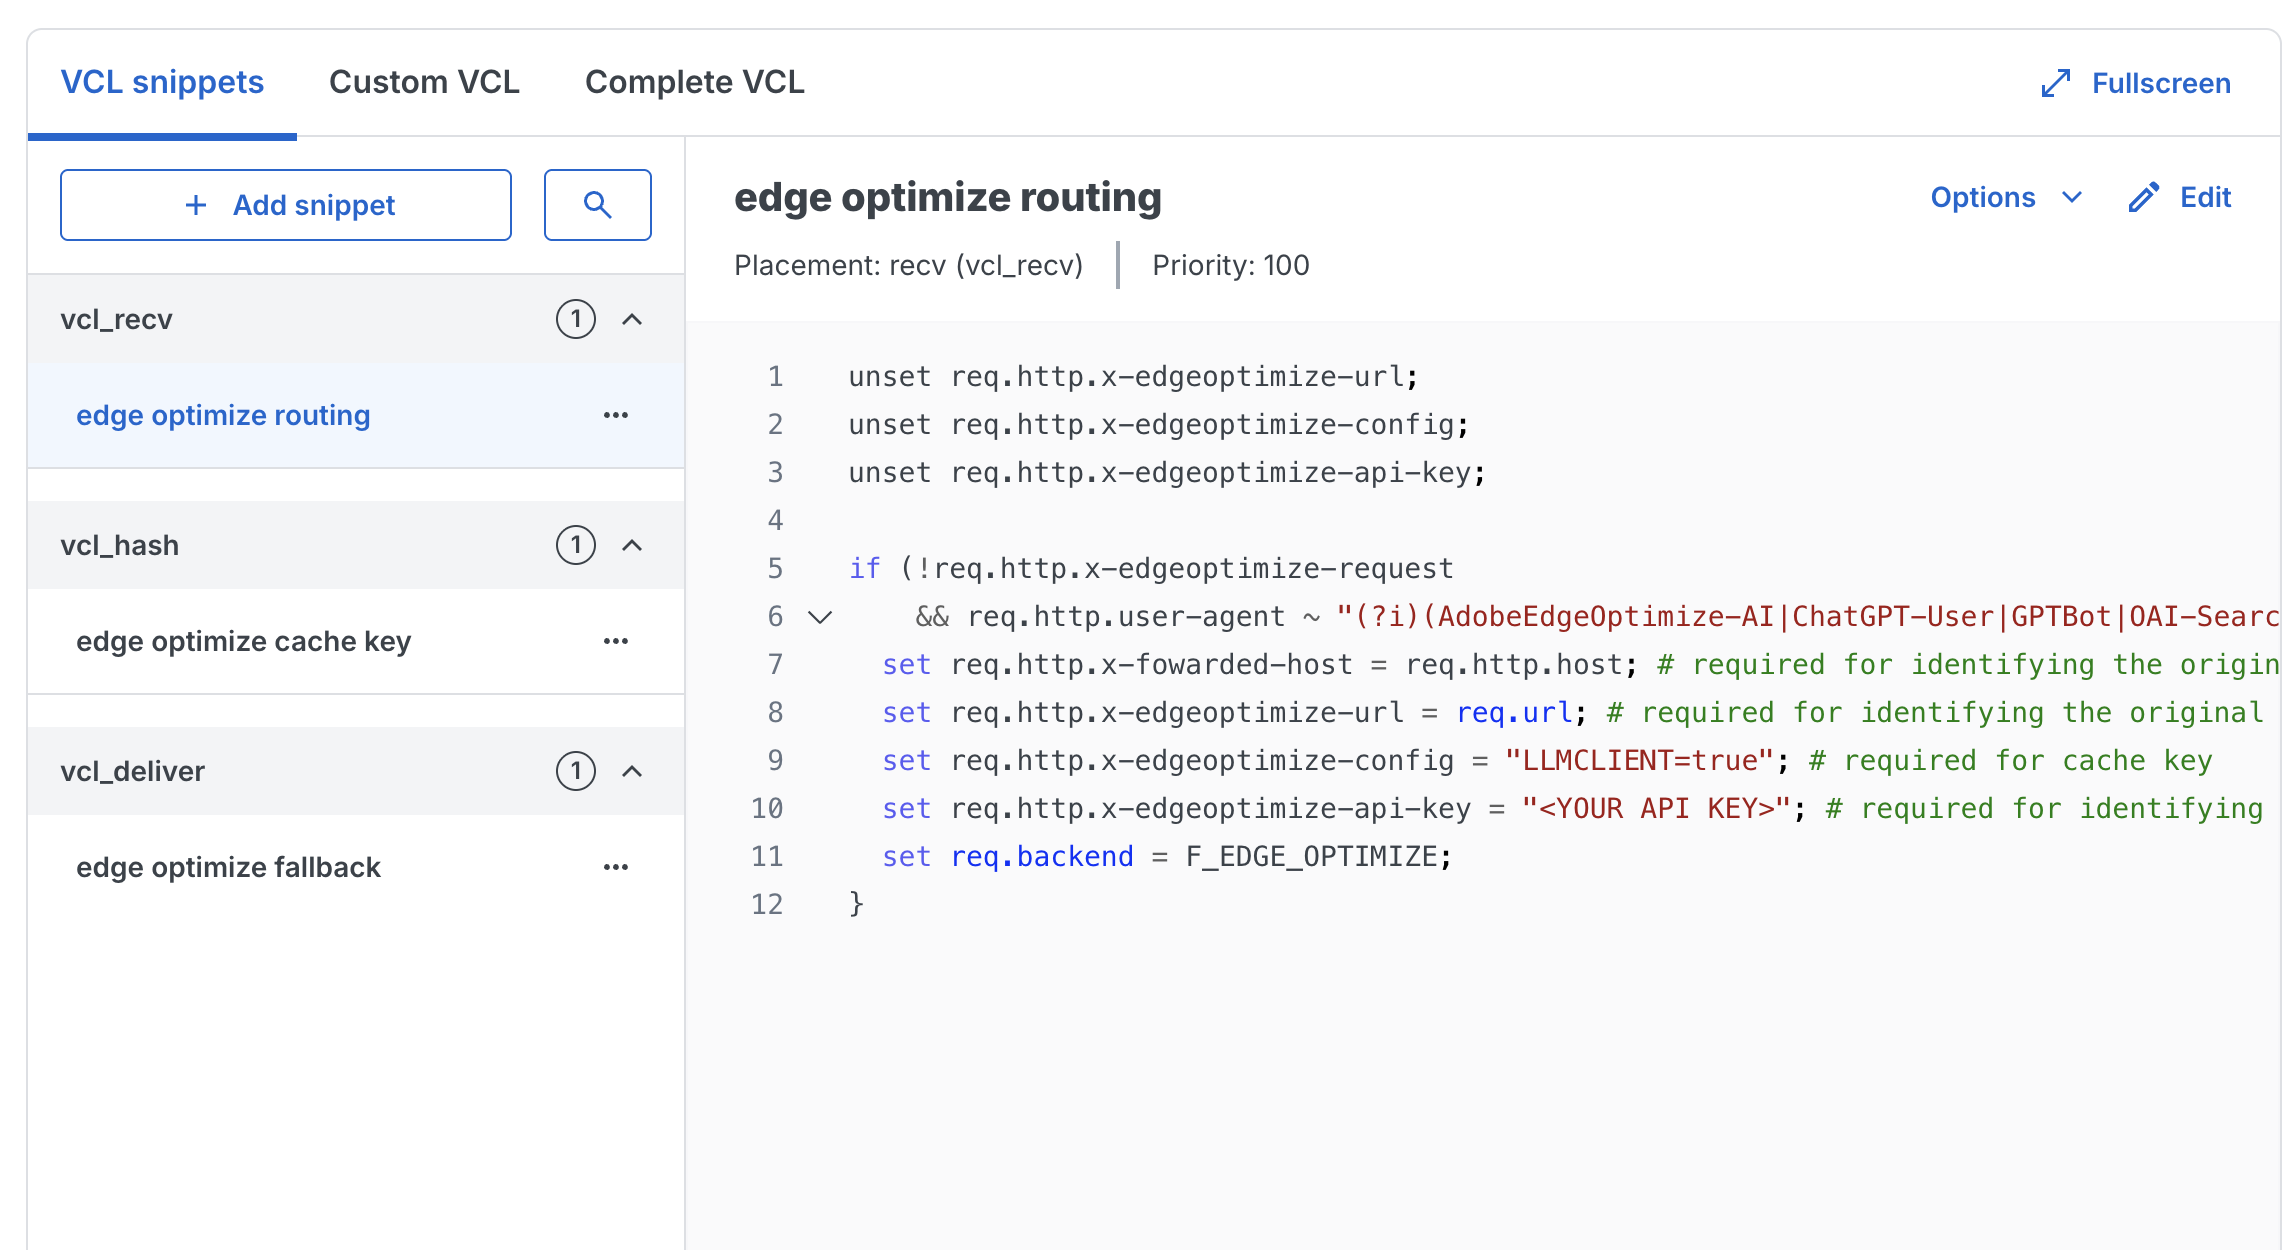
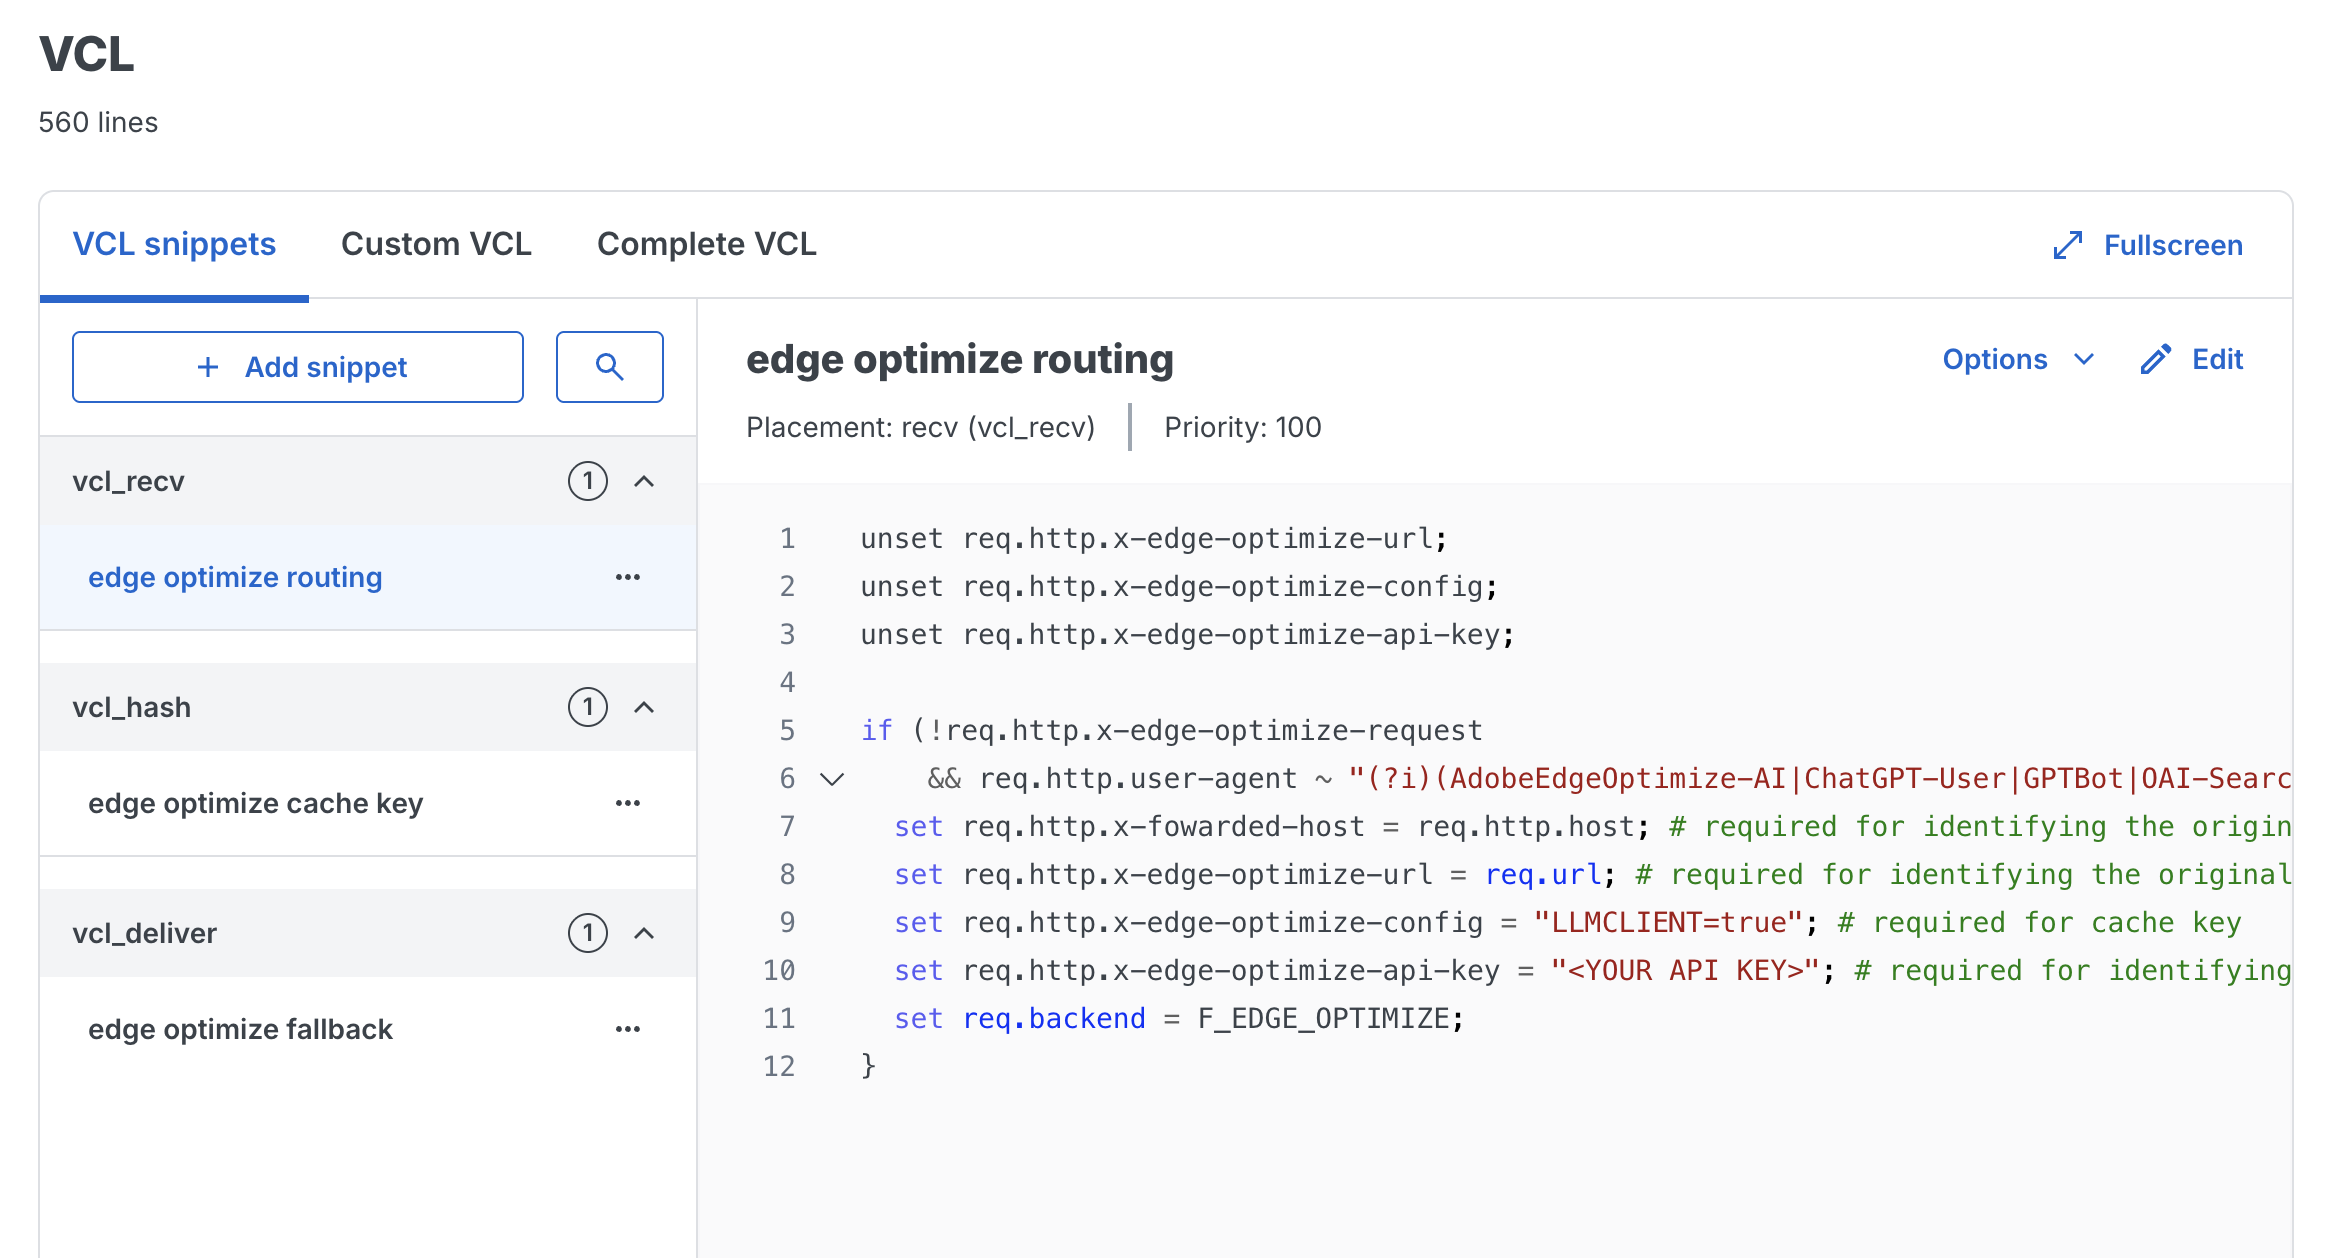
Revert "fix: renaming to x-edgeoptimize"

diff --git a/help/dashboards/optimize-at-edge.md b/help/dashboards/optimize-at-edge.md
@@ -57,12 +57,12 @@ To guide the setup process, presented below, are sample configurations for a num
 
 **Adobe Managed CDN**
 
-The purpose of this configuration is to configure requests with agentic user agents that will be routed to the Optimizer service (`live.edgeoptimize.net` backend). To test the configuration, after the setup is complete look for the header `x-edgeoptimize-request-id` in the response.
+The purpose of this configuration is to configure requests with agentic user agents that will be routed to the Optimizer service (`live.edgeoptimize.net` backend). To test the configuration, after the setup is complete look for the header `x-edge-optimize-request-id` in the response.
 
 ```
 curl -svo page.html https://frescopa.coffee/about-us --header "user-agent: chatgpt-user"
 < HTTP/2 200
-< x-edgeoptimize-request-id: 50fce12d-0519-4fc6-af78-d928785c1b85
+< x-edge-optimize-request-id: 50fce12d-0519-4fc6-af78-d928785c1b85
 
 ```
 
@@ -89,7 +89,7 @@ data:
       - name: route-to-edge-optimize-backend
         when:
           allOf:
-            - reqHeader: x-edgeoptimize-request
+            - reqHeader: x-edge-optimize-request
               exists: false # avoid loops when requests comes from Edge Optimize
             - reqHeader: user-agent
               matches: "(?i)(AdobeEdgeOptimize-AI|ChatGPT-User|GPTBot|OAI-SearchBot|PerplexityBot|Perplexity-User)" # routed user agents
@@ -114,7 +114,7 @@ To test the setup, run a curl and expect the following:
 ```
 curl -svo page.html https://www.example.com/page.html --header "user-agent: chatgpt-user"
 < HTTP/2 200
-< x-edgeoptimize-request-id: 50fce12d-0519-4fc6-af78-d928785c1b85
+< x-edge-optimize-request-id: 50fce12d-0519-4fc6-af78-d928785c1b85
 
 ```
 
@@ -405,16 +405,16 @@ Important considerations:
 **vcl_recv snippet**
 
 ```
-unset req.http.x-edgeoptimize-url;
-unset req.http.x-edgeoptimize-config;
-unset req.http.x-edgeoptimize-api-key;
+unset req.http.x-edge-optimize-url;
+unset req.http.x-edge-optimize-config;
+unset req.http.x-edge-optimize-api-key;
 
-if (!req.http.x-edgeoptimize-request
+if (!req.http.x-edge-optimize-request
     && req.http.user-agent ~ "(?i)(AdobeEdgeOptimize-AI|ChatGPT-User|GPTBot|OAI-SearchBot|PerplexityBot|Perplexity-User)") {
   set req.http.x-fowarded-host = req.http.host; # required for identifying the original host
-  set req.http.x-edgeoptimize-url = req.url; # required for identifying the original url
-  set req.http.x-edgeoptimize-config = "LLMCLIENT=true"; # required for cache key
-  set req.http.x-edgeoptimize-api-key = "<YOUR API KEY>"; # required for identifying the client
+  set req.http.x-edge-optimize-url = req.url; # required for identifying the original url
+  set req.http.x-edge-optimize-config = "LLMCLIENT=true"; # required for cache key
+  set req.http.x-edge-optimize-api-key = "<YOUR API KEY>"; # required for identifying the client
   set req.backend = F_EDGE_OPTIMIZE;
 }
 ```
@@ -422,23 +422,23 @@ if (!req.http.x-edgeoptimize-request
 **vcl_hash snippet**
 
 ```
-if (req.http.x-edgeoptimize-config) {
+if (req.http.x-edge-optimize-config) {
   set req.hash += "edge-optimize";
-  set req.hash += req.http.x-edgeoptimize-config;
+  set req.hash += req.http.x-edge-optimize-config;
 }
 ```
 
 **vcl_deliver snippet**
 
 ```
-if (req.http.x-edgeoptimize-config && resp.status >= 400) {
-  set req.http.x-edgeoptimize-request = "failover";
+if (req.http.x-edge-optimize-config && resp.status >= 400) {
+  set req.http.x-edge-optimize-request = "failover";
   set req.backend = F_Default_Origin;
   restart;
 }
 
-if (!req.http.x-edgeoptimize-config && req.http.x-edgeoptimize-request == "failover") {
-  set resp.http.x-edgeoptimize-fo = "1";
+if (!req.http.x-edge-optimize-config && req.http.x-edge-optimize-request == "failover") {
+  set resp.http.x-edge-optimize-fo = "1";
 }
 ```
 
